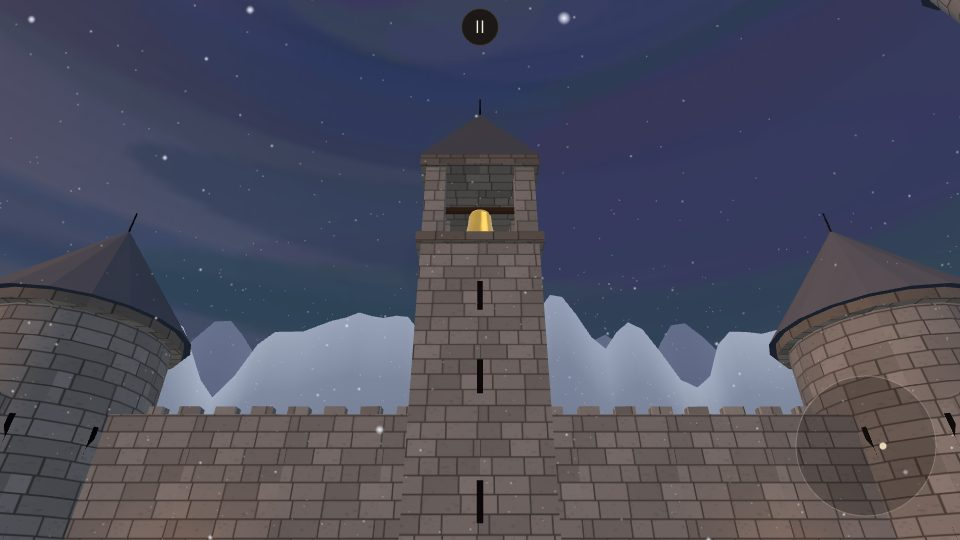
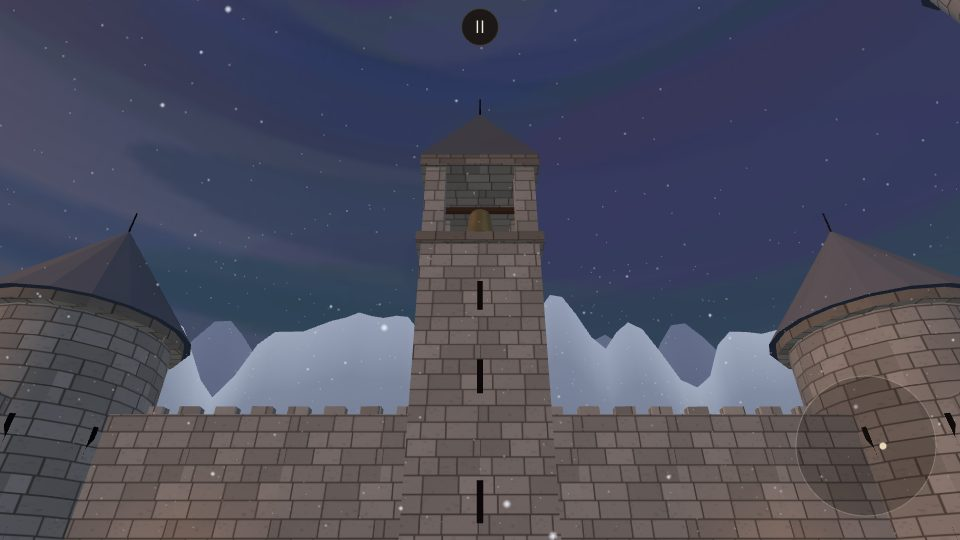
성 안뜰: 종을 과한 금빛에서 은은한 오래된 청동으로
Claude-Session: https://claude.ai/code/session_01HNkUuYHag8VSg6xpgbkGVR

diff --git a/src/stage_castle.js b/src/stage_castle.js
@@ -643,8 +643,8 @@ export function buildCastle(scene, lights = {}) {
       [0.72, -1.35],
       [0.66, -1.36],
     ].map(([a, b]) => new THREE.Vector2(a, b));
-    // 윤이 나는 금빛 청동: 반사 환경맵 + 해 질 녘에도 보이게 살짝 스스로 빛난다
-    const bellMat = new THREE.MeshStandardMaterial({ color: 0xd8ac4e, roughness: 0.2, metalness: 0.95, envMap: weaponEnv(), envMapIntensity: 1.8, emissive: 0x6a4410, emissiveIntensity: 0.45, side: THREE.DoubleSide });
+    // 오래된 청동: 은은한 광택 (반사 환경맵은 약하게), 해 질 녘에도 형태가 보일 만큼만 아주 약하게 스스로 빛난다
+    const bellMat = new THREE.MeshStandardMaterial({ color: 0x7c6c4c, roughness: 0.5, metalness: 0.8, envMap: weaponEnv(), envMapIntensity: 0.55, emissive: 0x1c160c, emissiveIntensity: 0.25, side: THREE.DoubleSide });
     const bell = new THREE.Mesh(new THREE.LatheGeometry(pts, 24), bellMat);
     const clapper = new THREE.Mesh(new THREE.SphereGeometry(0.13, 8, 6), bell.material);
     clapper.position.y = -1.15;

diff --git a/docs/stages.md b/docs/stages.md
@@ -70,7 +70,7 @@ arena.js와 같이 `{ update, excite, sunOffset }`을 반환한다.
   - 밤색 말은 고개를 들었고 붉은 덮개를 썼다. 잿빛 말은 건초를 먹고 있고 푸른 덮개를 썼다.
   - 그 밖에 건초 더미, 통, 나무상자, 얼음 낀 구유가 있다.
 - **남쪽**: 지붕 있는 우물, 허수아비 둘, 베기 연습 말뚝, 벽에 기댄 창 걸이, 장작더미가 있다.
-- **남쪽 성벽 가운데 종탑**: 24m 네모 탑 위에 트인 종루와 눈 덮인 뾰족 지붕을 얹었다. 종은 반사 환경맵을 쓴 윤나는 금빛 청동이라 해 질 녘에도 눈에 띈다. 바람에 늘 살짝 흔들리고, 큰 타격이 나오면 크게 흔들린다.
+- **남쪽 성벽 가운데 종탑**: 24m 네모 탑 위에 트인 종루와 눈 덮인 뾰족 지붕을 얹었다. 종은 은은한 광택이 도는 오래된 청동이다(오너 요청으로 과한 금빛을 걷어냄). 바람에 늘 살짝 흔들리고, 큰 타격이 나오면 크게 흔들린다.
 - **불빛**: 네 귀퉁이 화로와 벽 횃불 여덟 개가 있다.
   - 불꽃은 인스턴싱 원뿔로 만들어 일렁인다.
   - 따뜻한 빛은 실제 조명 없이 벽과 눈의 꼭짓점 색에 구워 넣었다. 화로 둘레는 눈이 녹아 거뭇하다.
@@ -89,6 +89,7 @@ arena.js와 같이 `{ update, excite, sunOffset }`을 반환한다.
 - [마구간](stages/castle_stable.jpg)
 - [말](stages/castle_horse.jpg)
 - [종탑](stages/castle_bell.jpg)
+- [종 가까이](stages/castle_bellnear.jpg)
 
 ## 무너진 대성당 (`cathedral`)
 
